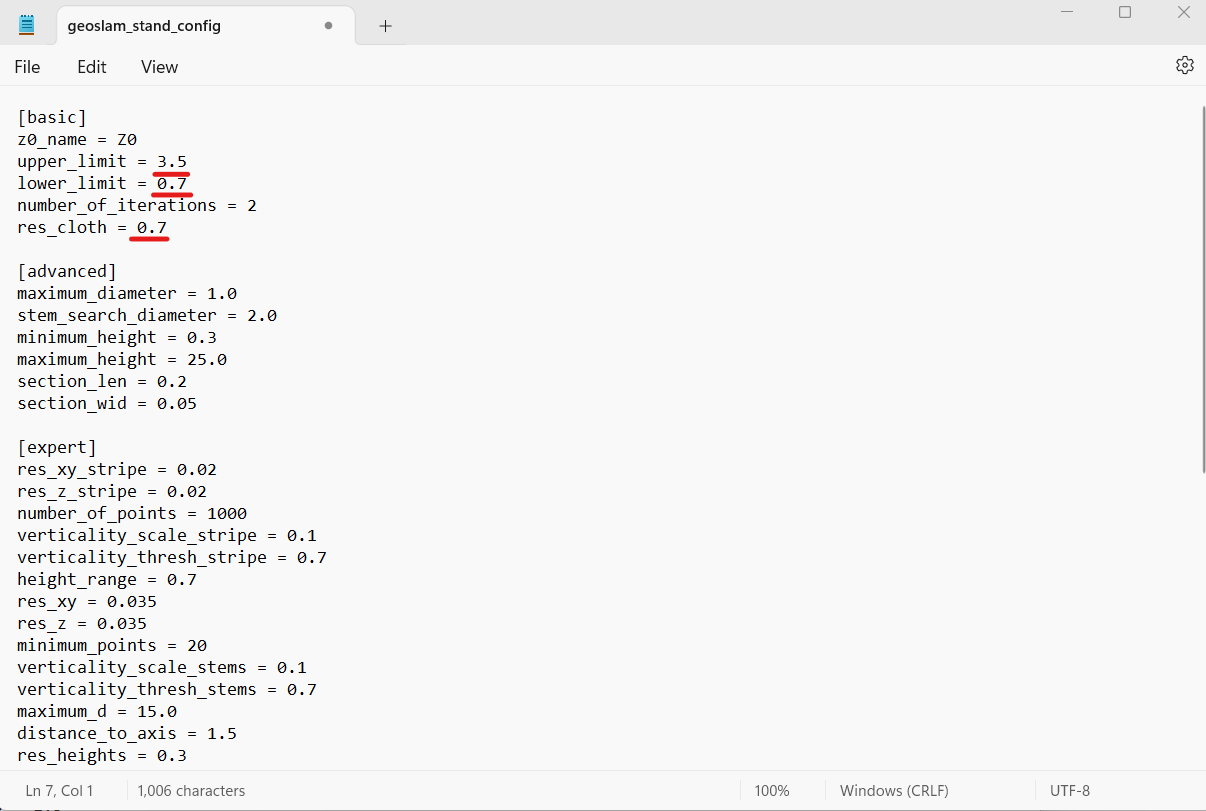
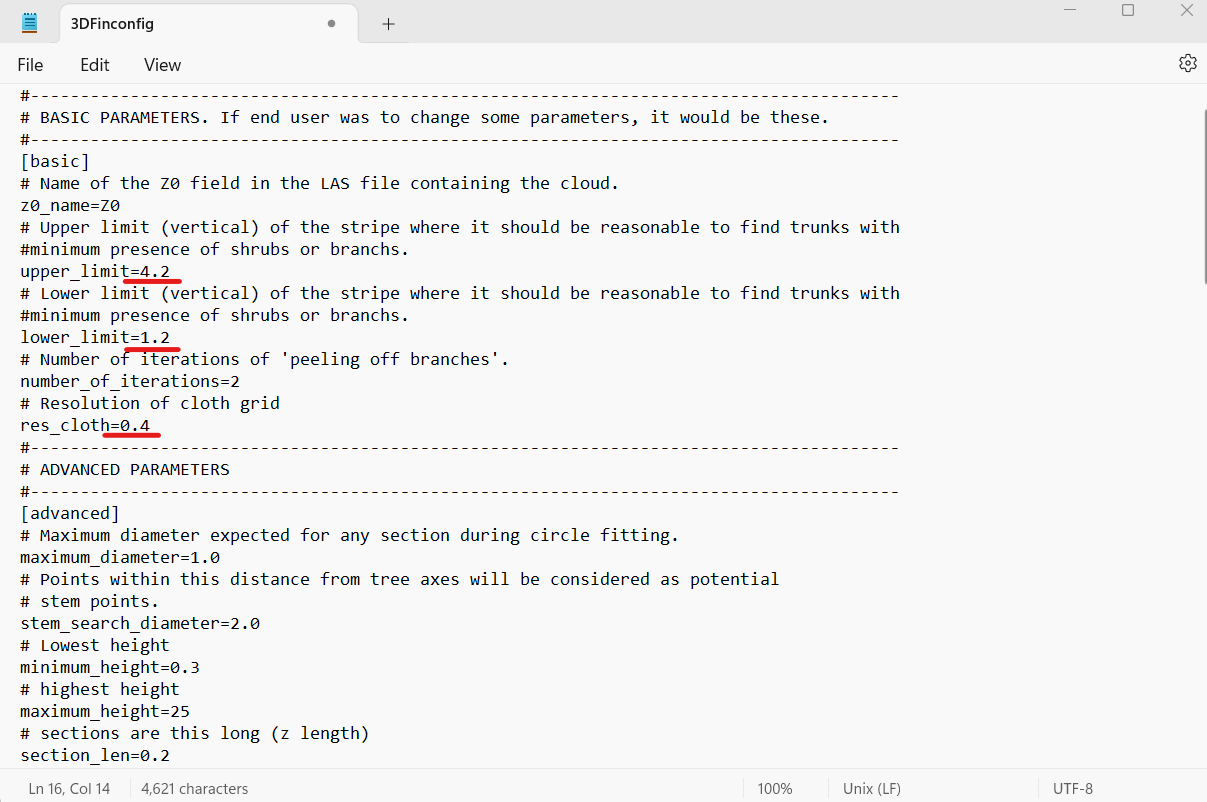
New entry (case II)
Added entry to the tutorial with explanations on how to use 3DFinconfig.ini to set the default values of 3DFin.

diff --git a/Readme.md b/Readme.md
@@ -9,6 +9,9 @@
     - [Additional options in the Advanced mode](#additional-options-in-the-advanced-mode)
   - [Case I - adjusting DTM interpolation settings](#case-i---adjusting-dtm-interpolation-settings)
     - [Modify cloth resolution to improve results](#modify-cloth-resolution-to-improve-results)
+  - [Case II - defining default settings](#case-ii---defining-default-settings)
+    - [Modify 3DFinconfig.ini file to define default settings (STANDALONE EXCLUSIVE)](#modify-3dfinconfigini-file-to-define-default-settings-standalone-exclusive)
+    - [Output config.ini file](#output-configini-file)
 
 ## Getting started with 3DFin plugin to extract individual tree information from terrestrial point clouds
 
@@ -350,3 +353,79 @@ If you fail to obtain a high quality DTM using the algorithm integrated in 3DFin
 In this case you would **uncheck the "Normalize point cloud" box** in the Basic-tab of the 3DFin user interface. By unchecking the box, the drop-down menu "Normalized Height Field Name" will be activated and you will have to **select the attribute name** of the data column that includes the normalized height values of the point-cloud. After this, you can run the workflow as learned before.
 
 This option can also be used to reduce processing time: In case you have already run the 3DFin workflow successfully one time and the quality of the DTM was good, you can re-use the point-cloud created by the 3DFin workflow for this purposes. Each point cloud created by the 3DFin workflow contains a normalized height field and can hence be directly put into the workflow again without the need to normalize the point cloud again. One situation in which you could be interested in this is if you want to for example check how the outputs of the workflow is influenced by changing some of the settings in the "Advanced"-tab of the 3DFin user interface.
+
+## Case II - defining default settings
+
+### Modify 3DFinconfig.ini file to define default settings (STANDALONE EXCLUSIVE)
+
+**This functionality is currently only available in 3DFin's standalone and python package versions.**
+
+3DFin comes with a set of predefined values for the parameters that are modifiable in the software. Although these values have been selected by the developers to fit "standard" forest plots, users will probably find configuration settings that fit better to their datasets. 
+
+There is an easy way to modify the default values of the parameters through the *configuration file* of 3DFin. This can save some time, specially if you find yourself changing the parameters frequently to a set that you already know works better for your data.
+
+**Let's see this with an example.**
+
+We will use the the same dataset as in **Case I - adjusting DTM interpolation settings**, which can be downloaded here:
+
+[GeoSlam point cloud](https://drive.google.com/file/d/1LEx7WtGt4IHm17KbmbvnFega2jIwXJD6/view?usp=sharing)
+
+The configuration file (3DFinconfig.ini) itself is downloadable from here:
+
+[3DFin configuration file](https://github.com/3DFin/3DFin/blob/main/src/three_d_fin/3DFinconfig.ini)
+
+If we open the file in a text editor we will see that it contains the default values of 3DFin. This is shown in Fig. 36:
+
+![Figure 36: Contents of 3DFinconfig.ini. It stores the default values used by 3DFin.](figures/Fig_36.png)
+
+3DFin stores internally a copy of the values contained in this file, which allows the program to work properly even if no configuration file is present. However, **if a configuration file with the same structure as 3DFinconfig.ini is placed in the input directory of 3DFin, the program will attempt to read the default values from it.** For this configuration file to work, it must meet the following rules:
+
+1. The name of the file is "3DFinconfig"
+2. The format of the file is ".ini"
+3. The internal structure of the file is exactly the same as the example file (except the values of the parameters).
+4. The file is placed in the same than 3DFin.exe.
+
+This file is organized in sections, that follow the same structure as 3DFin' tabs: *basic*, *advanced* and *expert*. Let's break down the basic section to see how we can modify its values correctly. It's contents are the following:
+
+```
+[basic]
+# General comment about z0_name parameter.
+z0_name=Z0
+# General comment about upper_limit parameter.
+upper_limit=3.5
+# General comment about lower_limit parameter.
+lower_limit=0.7
+# General comment about number_of_iterations=2
+ parameter.
+number_of_iterations=2
+#General comment about res_cloth parameter.
+res_cloth=0.7
+```
+
+The very first line only contains **\[basic\]**. This determines the beggining of "basic" section. It's very important that this line is not modified, as it is what 3DFin uses to recognize that basic parameters will be declared below. The second line, starting with "#" is ignored by 3DFin, and only contains a short comment describing the contents of the parameters. You can leave it as it is, modify it or completely remove it; this won't have an effect. Thirdly, we have:
+
+```
+z_name=Z0
+```
+
+This line determines the default value (**"Z0"**) of the first parameter (**"z0_name"**) of the Basic tab of 3DFin. "z0_name" is the name that 3DFin recognizes internally for the first parameter of the basic tab. This can't be modified. However, "Z0" is its default value, and that is what you would modify.
+
+Knowing this, let's modify the config file in a way that adjusts better to the example point cloud "geoslam_stand.las". In **Case I**, we found that changing "Stripe Upper Limit" from 3.5 m to 4.2 m, "Stripe Lower Limit" from 0.7 m to 1.2 m and "Cloth resolution" from 0.7 m to 0.4 m produced better results. We can modify those as depicted in Fig. 37:
+
+![Figure 37: Modified 3DFinconfig.ini file.](figures/Fig_37.png)
+
+If we now place the configuration file in the same directory where 3DFin.exe is located, everytime we open the program the default parameters will match those in the configuration file. Fig. 38 shows this.
+
+![Figure 38: Left: the 3DFinconfig.ini modified as in Fig. 37 placed in the same directory as 3DFin.exe. Right: 3DFin displaying the default parameters contained in 3DFinconfig.ini.](figures/Fig_38.png)
+
+Whenever this happens, 3DFin will prompt a message in the console confirming that a configuration file has been found. This is shown in Fig. 39.
+
+![Figure 39: 3DFin console showing that a configuration file has been found.](figures/Fig_39.png)
+
+### Output config.ini file
+
+A last tip about 3DFin configuration files: If you process a point cloud with 3DFin, you will find a copy of the configuration file in the output directory, but this will have a different name than "3DFinconfig.ini". This is illustrated in Fig. 40.
+
+![Figure 40: Example output directory of 3DFin after processing geoslam_stand.las, where a config file has been generated (geoslam_stand_config.ini).](figures/Fig_40.png)
+
+3DFin always produces a configuration file that saves the settings used during the run. This file's name will be the name of the input point cloud + \[_config\]. If you found a set of parameters that suits well your dataset, you can always rename this file to "3DFinconfig", and it will update the default values of 3DFin to that better set of values!
